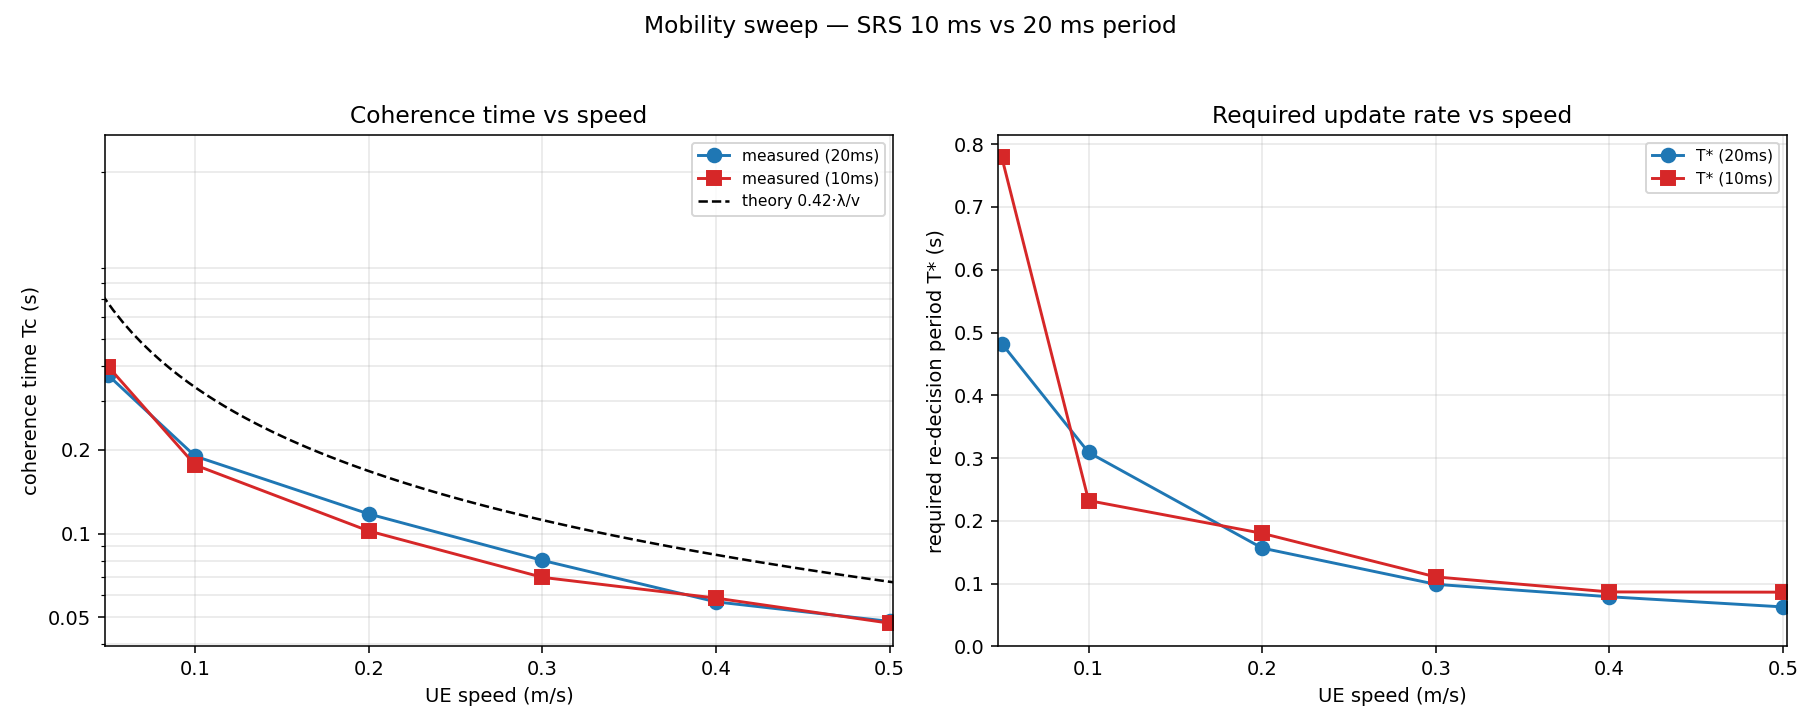
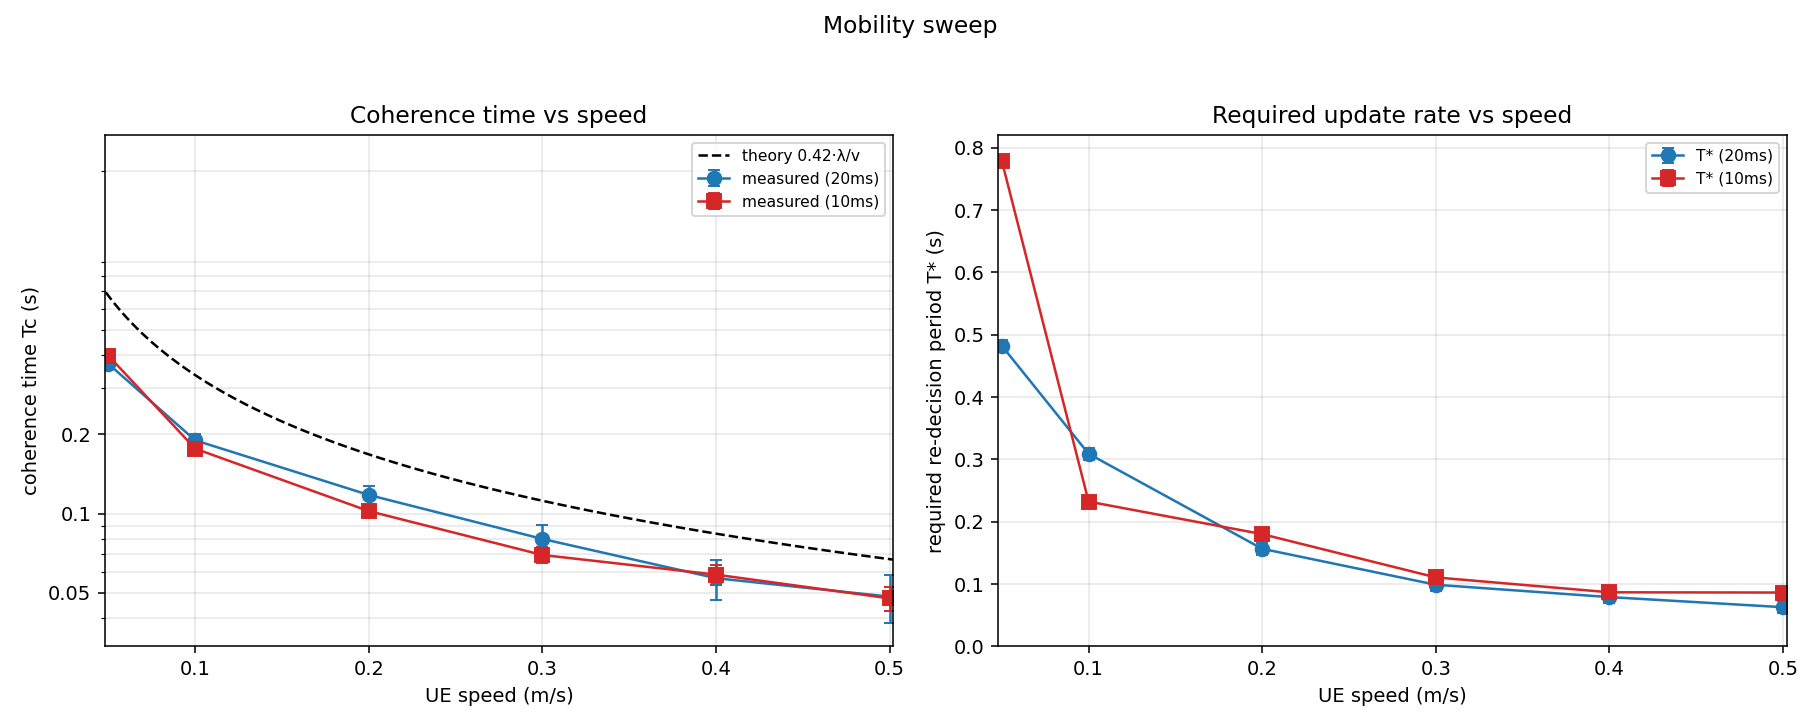
Plot cleanup: error bars, zero-based y, all points in mean, trimmed titles, period from avg_win_ms

diff --git a/tools/plot_mobility_sweep.py b/tools/plot_mobility_sweep.py
@@ -1,32 +1,16 @@
 #!/usr/bin/env python3
-"""
-plot_mobility_sweep.py — Tc-vs-speed and T*-vs-speed, both SRS periods overlaid.
-
-Reads a CSV with columns including speed_mps, Tc (or Tc_plateau_s), Tstar_s, and
-a way to tell 10ms vs 20ms captures apart (filename: E00xx=10ms, E0xx=20ms).
-
-Usage:
-  python3 plot_mobility_sweep.py <csv> -o out.png
-"""
-import argparse, csv, sys
+"""Tc-vs-speed and T*-vs-speed, both SRS periods. Period from avg_win_ms column."""
+import argparse, csv
 import numpy as np, matplotlib
 matplotlib.use("Agg"); import matplotlib.pyplot as plt
 import matplotlib.ticker
-
 LAMBDA=0.08
-
-def period_of(fname):
-    import re
-    ms=re.findall(r"E(\d+)", fname)
-    if not ms: return "?"
-    digits=ms[-1]
-    return "10ms" if len(digits)>=4 else "20ms"
 
 def main():
     ap=argparse.ArgumentParser()
     ap.add_argument("csv"); ap.add_argument("-o","--out",default="mobility_sweep.png")
+    ap.add_argument("--err-samples",type=float,default=0.5)
     a=ap.parse_args()
-
     rows=list(csv.DictReader(open(a.csv)))
     def getf(r,*keys):
         for k in keys:
@@ -34,67 +18,54 @@ def main():
                 try: return float(r[k])
                 except: pass
         return np.nan
-
     data={"10ms":{"v":[],"tc":[],"tstar":[]}, "20ms":{"v":[],"tc":[],"tstar":[]}}
     for r in rows:
-        fname=r.get("file","")
-        per=period_of(fname)
-        if per not in data: continue
+        win=getf(r,"avg_win_ms")
+        per={10:"10ms",20:"20ms"}.get(int(win) if not np.isnan(win) else -1)
+        if per is None: continue
         v=getf(r,"speed_mps")
-        if not np.isnan(v) and abs(v - 0.02) < 1e-6:
-            continue
-        tc=getf(r,"Tc_plateau_s","Tc_meas_s","Tc_meas")
-        ts=getf(r,"Tstar_s")
+        if not np.isnan(v) and abs(v-0.02)<1e-6: continue
+        tc=getf(r,"Tc_plateau_s","Tc_meas_s","Tc_meas"); ts=getf(r,"Tstar_s")
         if not np.isnan(v):
             data[per]["v"].append(v); data[per]["tc"].append(tc); data[per]["tstar"].append(ts)
 
     fig,ax=plt.subplots(1,2,figsize=(13,5.2))
-    colors={"20ms":"#1f77b4","10ms":"#d62728"}
-    markers={"20ms":"o","10ms":"s"}
+    colors={"20ms":"#1f77b4","10ms":"#d62728"}; markers={"20ms":"o","10ms":"s"}
+    per_ms={"20ms":0.020,"10ms":0.010}
 
-    # ---- Tc vs speed ----
-    all_tc = []
+    # ---- Tc vs speed (with error bars) ----
+    all_tc=[]
     for per in ("20ms","10ms"):
         v=np.array(data[per]["v"]); tc=np.array(data[per]["tc"])
-        o=np.argsort(v); v,tc=v[o],tc[o]
-        m=~np.isnan(tc)
-        ax[0].plot(v[m],tc[m],markers[per]+"-",color=colors[per],label=f"measured ({per})",ms=7)
+        o=np.argsort(v); v,tc=v[o],tc[o]; m=~np.isnan(tc)
+        dtc=a.err_samples*per_ms[per]  # symmetric Tc resolution
+        ax[0].errorbar(v[m],tc[m],yerr=dtc,fmt=markers[per]+"-",color=colors[per],
+                       label=f"measured ({per})",ms=7,capsize=3,lw=1.3)
         all_tc.extend(tc[m].tolist())
     vv=np.linspace(0.015,0.55,100)
     ax[0].plot(vv,0.42*LAMBDA/vv,"k--",lw=1.3,label="theory 0.42·λ/v")
     ax[0].set_xlabel("UE speed (m/s)"); ax[0].set_ylabel("coherence time Tc (s)")
-    ax[0].set_title("Coherence time vs speed")
-    ax[0].set_yscale("log")
-
+    ax[0].set_title("Coherence time vs speed"); ax[0].set_yscale("log")
     if all_tc:
-        lo, hi = min(all_tc), max(all_tc)
-        exp_lo = int(np.floor(np.log10(lo)))
-        exp_hi = int(np.ceil(np.log10(hi)))
-        candidates = []
-        for e in range(exp_lo, exp_hi+1):
-            for mm in (1, 2, 5):
-                candidates.append(mm * 10.0**e)
-        yticks0 = sorted(t for t in candidates if lo*0.9 <= t <= hi*1.1)
-        ax[0].set_yticks(yticks0)
-        ax[0].set_yticklabels([f"{t:g}" for t in yticks0])
+        lo,hi=min(all_tc),max(all_tc)
+        cands=[mm*10.0**e for e in range(int(np.floor(np.log10(lo))),int(np.ceil(np.log10(hi)))+1) for mm in (1,2,5)]
+        yt=sorted(t for t in cands if lo*0.9<=t<=hi*1.1)
+        ax[0].set_yticks(yt); ax[0].set_yticklabels([f"{t:g}" for t in yt])
         ax[0].yaxis.set_minor_formatter(matplotlib.ticker.NullFormatter())
+    ax[0].set_xlim(0.048,0.502); ax[0].grid(alpha=.3,which="both"); ax[0].legend(fontsize=8)
 
-    ax[0].set_xlim(0.048, 0.502)
-    ax[0].grid(alpha=.3, which="both"); ax[0].legend(fontsize=8)
-
-    # ---- T* vs speed ----
+    # ---- T* vs speed (with error bars) ----
     for per in ("20ms","10ms"):
         v=np.array(data[per]["v"]); ts=np.array(data[per]["tstar"])
-        o=np.argsort(v); v,ts=v[o],ts[o]
-        m=~np.isnan(ts)
-        ax[1].plot(v[m],ts[m],markers[per]+"-",color=colors[per],label=f"T* ({per})",ms=7)
+        o=np.argsort(v); v,ts=v[o],ts[o]; m=~np.isnan(ts)
+        dts=a.err_samples*per_ms[per]
+        ax[1].errorbar(v[m],ts[m],yerr=dts,fmt=markers[per]+"-",color=colors[per],
+                       label=f"T* ({per})",ms=7,capsize=3,lw=1.3)
     ax[1].set_xlabel("UE speed (m/s)"); ax[1].set_ylabel("required re-decision period T* (s)")
     ax[1].set_title("Required update rate vs speed")
+    ax[1].set_xlim(0.048,0.502); ax[1].grid(alpha=.3); ax[1].legend(fontsize=8); ax[1].set_ylim(bottom=0)
 
-    ax[1].set_xlim(0.048, 0.502)
-    ax[1].grid(alpha=.3); ax[1].legend(fontsize=8); ax[1].set_ylim(bottom=0)
-
-    fig.suptitle("Mobility sweep — SRS 10 ms vs 20 ms period",fontsize=12)
+    fig.suptitle("Mobility sweep",fontsize=12)
     fig.tight_layout(rect=[0,0,1,0.95]); fig.savefig(a.out,dpi=140)
     print("wrote",a.out)
     print("\nspeed  Tc(20ms) Tc(10ms)  T*(20ms) T*(10ms)")
@@ -106,5 +77,4 @@ def main():
             return np.nan
         print(f"{vq:5.2f}  {pick('20ms','tc'):8.3f} {pick('10ms','tc'):8.3f}  {pick('20ms','tstar'):8.3f} {pick('10ms','tstar'):8.3f}")
 
-if __name__=="__main__":
-    main()
+if __name__=="__main__": main()
